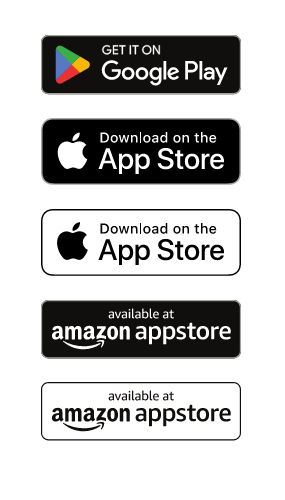
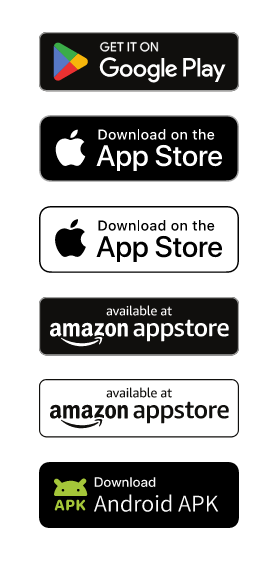
android-apk-badge

diff --git a/projects/ngx-app-store-badge/src/lib/components/android-apk-badge/android-apk-badge.component.html b/projects/ngx-app-store-badge/src/lib/components/android-apk-badge/android-apk-badge.component.html
@@ -1,0 +1,76 @@
+<a [href]="url" target="_blank" aria-label="download android app">
+  <svg
+    version="1.0"
+    id="katman_1"
+    x="0px"
+    y="0px"
+    viewBox="0 0 614.5 203.10015"
+    xml:space="preserve"
+    sodipodi:docname="download-android-apk-badge-seeklogo.com.svg"
+    inkscape:export-filename="apk.svg"
+    inkscape:export-xdpi="96"
+    inkscape:export-ydpi="96"
+    width="100%"
+    height="100%"
+    inkscape:version="1.2.2 (b0a8486541, 2022-12-01)"
+    xmlns:inkscape="http://www.inkscape.org/namespaces/inkscape"
+    xmlns:sodipodi="http://sodipodi.sourceforge.net/DTD/sodipodi-0.dtd"
+    xmlns="http://www.w3.org/2000/svg"
+    xmlns:svg="http://www.w3.org/2000/svg"
+  >
+    <defs id="defs17" />
+    <style type="text/css" id="style2">
+      .st0 {
+        fill-rule: evenodd;
+        clip-rule: evenodd;
+        fill: #a4c639;
+      }
+      .st1 {
+        fill: #a4c639;
+      }
+      .st2 {
+        fill: #fafafa;
+      }
+    </style>
+    <g
+      id="apk-en"
+      sodipodi:insensitive="true"
+      transform="translate(-92.6,-198.1)"
+    >
+      <path
+        id="Path"
+        d="m 132,401.1 c -1.6,0 -3.1,0 -4.7,-0.1 -3.3,0 -6.5,-0.3 -9.7,-0.9 -3,-0.5 -5.9,-1.5 -8.6,-2.9 -2.7,-1.4 -5.2,-3.2 -7.3,-5.4 -2.2,-2.2 -4,-4.7 -5.3,-7.4 -1.4,-2.8 -2.3,-5.7 -2.8,-8.8 -0.5,-3.3 -0.8,-6.6 -0.9,-10 0,-1.1 -0.1,-4.8 -0.1,-4.8 V 238.2 c 0,0 0,-3.7 0.1,-4.7 0,-3.3 0.3,-6.7 0.9,-9.9 0.5,-3.1 1.4,-6 2.8,-8.8 2.8,-5.5 7.2,-10 12.6,-12.8 2.7,-1.4 5.6,-2.4 8.6,-2.9 3.2,-0.5 6.5,-0.8 9.8,-0.9 l 4.7,-0.1 h 535.5 l 4.8,0.1 c 3.2,0 6.5,0.3 9.7,0.9 3,0.5 6,1.5 8.7,2.9 5.4,2.8 9.8,7.3 12.6,12.8 1.4,2.8 2.3,5.7 2.8,8.8 0.5,3.3 0.8,6.7 0.9,10 0,1.5 0,3.1 0,4.7 0,2 0,3.9 0,5.8 v 111.1 c 0,1.9 0,3.8 0,5.7 0,1.7 0,3.3 0,4.9 -0.1,3.3 -0.4,6.6 -0.9,9.8 -0.5,3.1 -1.4,6.1 -2.8,8.9 -1.4,2.7 -3.2,5.2 -5.3,7.4 -2.1,2.2 -4.6,4 -7.3,5.4 -2.7,1.4 -5.7,2.4 -8.7,2.9 -3.2,0.5 -6.5,0.8 -9.7,0.9 -1.5,0 -3.1,0.1 -4.7,0.1 H 662 Z"
+      />
+      <path
+        id="Shape"
+        class="st0"
+        d="m 214.1,261.4 c 0.2,-0.3 0.4,-0.5 0.7,-0.8 l 9.5,-9.5 c 3.1,-3.1 8.2,-3.1 11.4,0 3.1,3.1 3.1,8.2 0,11.3 l -8.2,8.1 c 7.1,6.7 11.3,15 13,24.8 0.9,5.4 -0.8,7.5 -6.8,7.5 h -87.2 c -6.4,0.1 -8.6,-2.2 -7.5,-7.8 1.8,-9 5.5,-16.7 11.2,-22.9 l -9.3,-9.2 c -3.1,-3.1 -3.1,-8.2 0,-11.3 3.1,-3.1 8.2,-3.1 11.4,0 l 9.5,9.5 c 0.4,0.4 0.8,0.9 1.1,1.4 1.8,-1 3.8,-1.9 5.8,-2.7 15.7,-6.2 31,-5.5 45.4,1.6 z m -43.9,23.4 c 0,2.2 -1.8,4 -4,4 -2.2,0 -4,-1.8 -4,-4 0,-2.2 1.8,-4 4,-4 2.2,0 4,1.8 4,4 z m 43,4 c 2.2,0 4,-1.8 4,-4 0,-2.2 -1.8,-4 -4,-4 -2.2,0 -4,1.8 -4,4 0,2.2 1.8,4 4,4 z"
+      />
+      <path
+        id="Shape_00000062156159513692599870000007454928920405724051_"
+        class="st1"
+        d="m 144.7,347 c 2.1,0 3.2,-1.1 4,-3.8 l 1.3,-3.9 h 11 l 1.2,3.9 c 0.8,2.7 2,3.8 4.1,3.8 2.3,0 3.8,-1.3 3.8,-3.4 0,-0.8 -0.2,-1.8 -0.6,-3.1 l -7.2,-21.1 c -1.3,-3.9 -3.1,-5.4 -6.6,-5.4 -3.5,0 -5.3,1.6 -6.6,5.4 l -7.3,21.1 c -0.6,1.6 -0.8,2.5 -0.8,3.3 0,1.8 1.5,3.2 3.7,3.2 z m 6.9,-13.5 3.7,-12.4 h 0.4 l 3.7,12.4 z"
+      />
+      <path
+        id="Shape_00000119819762168567224120000007194588840098864538_"
+        class="st1"
+        d="m 180.4,346.9 c 2.5,0 4,-1.6 4,-4.3 v -6.4 h 5.3 c 7.5,0 12.1,-4 12.1,-11.1 0,-6.7 -4.5,-11.1 -11.7,-11.1 h -8.4 c -3.8,0 -5.2,1.5 -5.2,5.4 v 23.2 c 0,2.8 1.4,4.3 3.9,4.3 z m 4,-16.5 v -10.2 h 4.5 c 3.2,0 5,1.9 5,5.1 0,3.8 -1.8,5.1 -5.9,5.1 z"
+      />
+      <path
+        id="Path_00000104674802263785953230000010432242082412835517_"
+        class="st1"
+        d="m 231,346.9 c 2.3,0 3.8,-1.5 3.8,-3.7 0,-1.1 -0.4,-1.9 -1.6,-3.6 l -8.2,-11 7.7,-8.3 c 1.1,-1.1 1.4,-1.9 1.4,-2.9 0,-1.9 -1.5,-3.5 -3.5,-3.5 -1.1,0 -2,0.5 -3.1,1.7 l -11,11.9 H 216 v -9.4 c 0,-2.7 -1.4,-4.3 -4,-4.3 -2.5,0 -4,1.5 -4,4.3 v 24.6 c 0,2.7 1.5,4.3 4.1,4.3 2.5,0 3.9,-1.5 3.9,-4.3 v -6.1 l 3,-3.1 8,10.9 c 1.3,1.7 2.5,2.5 4,2.5 z"
+      />
+      <path
+        id="Shape_00000142864597391006816290000004069479167641885085_"
+        class="st2"
+        d="m 264,245.2 v 29 h 10.5 c 4.7,0 8.3,-1.3 10.7,-3.9 2.3,-2.5 3.5,-6.1 3.5,-10.6 0,-4.6 -1.1,-8.1 -3.4,-10.6 -2.5,-2.6 -6,-3.9 -10.7,-3.9 z m 4.5,3.8 h 5.4 c 3.7,0 6.4,0.9 8.1,2.6 1.6,1.7 2.5,4.4 2.5,8.1 0,3.7 -0.9,6.3 -2.5,8.1 -1.7,1.7 -4.5,2.6 -8.1,2.6 h -5.3 V 249 Z m 34.1,3.6 c -3.2,0 -5.8,1.1 -7.7,3.2 -1.9,2.1 -2.9,4.7 -2.9,7.9 0,3.2 0.9,5.8 2.8,7.8 2,2.1 4.5,3.2 7.7,3.2 3.2,0 5.8,-1.1 7.7,-3.2 1.9,-2 2.8,-4.7 2.8,-7.8 0,-3.2 -1,-5.8 -2.9,-7.9 -1.7,-2.1 -4.3,-3.2 -7.5,-3.2 z m 0,3.6 c 2,0 3.6,0.8 4.7,2.4 1,1.3 1.5,3.1 1.5,5.2 0,2.1 -0.5,3.8 -1.5,5.2 -1.1,1.5 -2.7,2.4 -4.7,2.4 -2,0 -3.6,-0.8 -4.7,-2.4 -1,-1.3 -1.4,-3 -1.4,-5.2 0,-2.1 0.4,-3.9 1.4,-5.2 1.2,-1.7 2.7,-2.4 4.7,-2.4 z m 12.4,-3 7.2,21 h 4 l 4.4,-15.7 4.4,15.7 h 4 l 7.2,-21 h -4.8 l -4.5,15.9 -4.3,-15.9 h -4 l -4.3,15.9 -4.5,-15.9 z m 44.5,-0.6 c -1.3,0 -2.5,0.2 -3.6,0.8 -1.1,0.5 -2,1.3 -2.8,2.4 v -2.6 h -4.3 v 21 h 4.3 v -12.6 c 0.2,-1.7 0.8,-3 1.8,-4 0.9,-0.9 2,-1.3 3.2,-1.3 3.3,0 4.9,1.8 4.9,5.4 v 12.6 h 4.3 v -13 c 0.1,-5.8 -2.5,-8.7 -7.8,-8.7 z m 13.4,-8 v 29.6 h 4.3 v -29.6 z m 19.4,8 c -3.2,0 -5.8,1.1 -7.7,3.2 -1.9,2.1 -2.9,4.7 -2.9,7.9 0,3.2 0.9,5.8 2.8,7.8 2,2.1 4.5,3.2 7.7,3.2 3.2,0 5.8,-1.1 7.7,-3.2 1.9,-2 2.8,-4.7 2.8,-7.8 0,-3.2 -1,-5.8 -2.9,-7.9 -1.7,-2.1 -4.3,-3.2 -7.5,-3.2 z m 0,3.6 c 2,0 3.6,0.8 4.7,2.4 1,1.3 1.5,3.1 1.5,5.2 0,2.1 -0.5,3.8 -1.5,5.2 -1.1,1.5 -2.7,2.4 -4.7,2.4 -2,0 -3.6,-0.8 -4.7,-2.4 -1,-1.3 -1.4,-3 -1.4,-5.2 0,-2.1 0.4,-3.9 1.4,-5.2 1.2,-1.7 2.7,-2.4 4.7,-2.4 z m 24.2,-3.6 c -2.6,0 -4.7,0.4 -6.3,1.4 -1.8,1.1 -2.9,2.8 -3.4,5 l 4.3,0.4 c 0.2,-1.2 0.9,-2 1.8,-2.6 0.8,-0.5 1.9,-0.7 3.3,-0.7 3.2,0 4.8,1.5 4.8,4.4 v 0.9 l -4.7,0.1 c -3.1,0.1 -5.6,0.7 -7.3,1.9 -1.9,1.3 -2.8,3.1 -2.8,5.4 0,1.7 0.7,3.2 2,4.3 1.2,1.1 2.9,1.7 5.1,1.7 1.9,0 3.5,-0.4 4.9,-1 1.2,-0.6 2.2,-1.5 3.1,-2.5 v 3 h 4 v -13.4 c 0,-2.6 -0.7,-4.5 -1.9,-5.8 -1.5,-1.7 -3.8,-2.5 -6.9,-2.5 z m 4.5,11.9 v 1.2 c 0,1.6 -0.7,3 -2,4.1 -1.3,1.1 -2.9,1.7 -4.7,1.7 -1.1,0 -2,-0.3 -2.7,-0.8 -0.7,-0.5 -1,-1.2 -1,-2 0,-2.6 2,-4 5.9,-4.1 z m 24.4,-19.9 v 11.7 c -1.7,-2.5 -3.9,-3.7 -6.5,-3.7 -3,0 -5.4,1.1 -7.2,3.3 -1.6,2 -2.4,4.6 -2.4,7.7 0,3.2 0.8,5.8 2.5,7.9 1.8,2.2 4.2,3.3 7.3,3.3 2.9,0 5.1,-1.1 6.5,-3.1 v 2.5 h 4 v -29.6 z m -5.4,11.5 c 1.6,0 2.9,0.6 4,1.9 1.1,1.4 1.6,3.2 1.6,5.5 v 0.4 c 0,2.1 -0.4,3.8 -1.3,5.2 -1.1,1.5 -2.5,2.2 -4.4,2.2 -2.1,0 -3.7,-0.8 -4.7,-2.3 -0.9,-1.3 -1.3,-3.1 -1.3,-5.4 0,-2.3 0.4,-4.1 1.3,-5.3 1,-1.5 2.6,-2.2 4.8,-2.2 z"
+      />
+      <path
+        id="Shape_00000156589177487486049790000007684168799740552875_"
+        class="st2"
+        d="m 273.4,330.8 2.5,-7.9 c 1.8,-5.5 3.4,-10.6 5,-16.4 h 0.3 c 1.7,5.7 3.2,10.9 5,16.4 l 2.5,7.9 z m 21.5,19.5 h 5.8 L 284.1,302 h -6 l -16.6,48.3 h 5.5 l 5,-15.2 h 18.1 z m 12.4,0 h 5.4 v -26.1 c 3.7,-3.8 6.4,-5.8 10.2,-5.8 5,0 7.1,3 7.1,9.9 v 22 h 5.4 v -22.6 c 0,-9.1 -3.5,-13.9 -11,-13.9 -4.9,0 -8.6,2.8 -12.1,6.1 h -0.2 l -0.5,-5.2 h -4.4 v 35.6 z m 52.3,0.9 c 4.4,0 8.2,-2.3 11.1,-5.1 h 0.1 l 0.5,4.3 h 4.4 v -52.5 h -5.4 v 14 l 0.3,6.2 c -3.3,-2.6 -6,-4.2 -10.3,-4.2 -8.2,0 -15.6,7.3 -15.6,18.8 0.1,11.8 5.9,18.5 14.9,18.5 z m 1.1,-4.5 c -6.6,0 -10.3,-5.3 -10.3,-14.1 0,-8.3 4.7,-14.2 10.8,-14.2 3.1,0 5.9,1.1 9.2,4 v 19.3 c -3.1,3.2 -6.2,5 -9.7,5 z m 27.7,3.6 h 5.4 v -23.2 c 2.5,-6.2 6.2,-8.4 9.2,-8.4 1.4,0 2.2,0.2 3.4,0.6 l 1.1,-4.7 c -1.2,-0.6 -2.3,-0.8 -3.8,-0.8 -4.1,0 -7.7,3 -10.2,7.5 h -0.2 l -0.5,-6.5 h -4.4 z m 38.1,0.9 c 8.8,0 16.5,-6.9 16.5,-18.6 0,-11.9 -7.8,-18.8 -16.5,-18.8 -8.7,0 -16.5,6.9 -16.5,18.8 0,11.7 7.7,18.6 16.5,18.6 z m 0,-4.5 c -6.4,0 -10.9,-5.7 -10.9,-14.1 0,-8.5 4.4,-14.3 10.9,-14.3 6.5,0 11,5.7 11,14.3 0,8.4 -4.5,14.1 -11,14.1 z m 26.3,3.6 h 5.4 v -35.6 h -5.4 z m 2.7,-43.2 c 2.1,0 3.9,-1.5 3.9,-3.6 0,-2.3 -1.8,-3.7 -3.9,-3.7 -2.3,0 -3.9,1.4 -3.9,3.7 0,2 1.6,3.6 3.9,3.6 z m 27.2,44.1 c 4.4,0 8.2,-2.3 11.1,-5.1 h 0.1 l 0.5,4.3 h 4.4 v -52.5 h -5.4 v 14 l 0.3,6.2 c -3.3,-2.6 -6,-4.2 -10.3,-4.2 -8.2,0 -15.6,7.3 -15.6,18.8 0.1,11.8 5.9,18.5 14.9,18.5 z m 1.1,-4.5 c -6.6,0 -10.3,-5.3 -10.3,-14.1 0,-8.3 4.7,-14.2 10.8,-14.2 3.1,0 5.9,1.1 9.2,4 v 19.3 c -3.2,3.2 -6.2,5 -9.7,5 z m 48.4,-15.9 2.5,-7.9 c 1.8,-5.5 3.4,-10.6 5,-16.4 h 0.3 c 1.7,5.7 3.2,10.9 5,16.4 l 2.5,7.9 z m 21.5,19.5 h 5.8 L 542.9,302 h -6 l -16.6,48.3 h 5.5 l 5,-15.2 h 18.1 z m 12.9,0 h 5.5 v -19.5 h 8.2 c 10.7,0 17.8,-4.8 17.8,-14.8 0,-10.4 -7.1,-14 -18.1,-14 h -13.5 v 48.3 z m 5.5,-24 v -19.9 h 7.2 c 8.9,0 13.4,2.3 13.4,9.6 0,7.2 -4.2,10.3 -13.1,10.3 z m 36.1,24 h 5.5 v -15.6 l 8.7,-10.2 14.9,25.7 h 6.2 l -17.5,-30 15.3,-18.3 H 635 l -21,24.9 h -0.1 V 302 h -5.5 v 48.3 z"
+      />
+    </g>
+  </svg>
+</a>

diff --git a/projects/ngx-app-store-badge/src/lib/ngx-app-store-badge.module.ts b/projects/ngx-app-store-badge/src/lib/ngx-app-store-badge.module.ts
@@ -3,18 +3,21 @@ import { GooglePlayBadgeComponent } from './components/google-play-badge/google-
 import { AppStoreBadgeComponent } from './components/app-store-badge/app-store-badge.component';
 import { BrowserModule } from '@angular/platform-browser';
 import { AmazonAppStoreBadgeComponent } from './components/amazon-app-store-badge/amazon-app-store-badge.component';
+import { AndroidApkBadgeComponent } from './components/android-apk-badge/android-apk-badge.component';
 
 @NgModule({
   declarations: [
     GooglePlayBadgeComponent,
     AppStoreBadgeComponent,
     AmazonAppStoreBadgeComponent,
+    AndroidApkBadgeComponent,
   ],
   imports: [BrowserModule],
   exports: [
     GooglePlayBadgeComponent,
     AppStoreBadgeComponent,
     AmazonAppStoreBadgeComponent,
+    AndroidApkBadgeComponent,
   ],
 })
 export class NgxAppStoreBadgeModule {}

diff --git a/projects/ngx-app-store-badge/src/lib/components/android-apk-badge/android-apk-badge.component.spec.ts b/projects/ngx-app-store-badge/src/lib/components/android-apk-badge/android-apk-badge.component.spec.ts
@@ -1,0 +1,21 @@
+import { ComponentFixture, TestBed } from '@angular/core/testing';
+
+import { AndroidApkBadgeComponent } from './android-apk-badge.component';
+
+describe('AndroidApkBadgeComponent', () => {
+  let component: AndroidApkBadgeComponent;
+  let fixture: ComponentFixture<AndroidApkBadgeComponent>;
+
+  beforeEach(() => {
+    TestBed.configureTestingModule({
+      declarations: [AndroidApkBadgeComponent]
+    });
+    fixture = TestBed.createComponent(AndroidApkBadgeComponent);
+    component = fixture.componentInstance;
+    fixture.detectChanges();
+  });
+
+  it('should create', () => {
+    expect(component).toBeTruthy();
+  });
+});

diff --git a/projects/ngx-app-store-badge/src/public-api.ts b/projects/ngx-app-store-badge/src/public-api.ts
@@ -7,3 +7,4 @@ export * from './lib/ngx-app-store-badge.module';
 export * from './lib/components/app-store-badge/app-store-badge.component';
 export * from './lib/components/google-play-badge/google-play-badge.component';
 export * from './lib/components/amazon-app-store-badge/amazon-app-store-badge.component';
+export * from './lib/components/android-apk-badge/android-apk-badge.component';

diff --git a/projects/ngx-app-store-badge/src/lib/components/android-apk-badge/android-apk-badge.component.ts b/projects/ngx-app-store-badge/src/lib/components/android-apk-badge/android-apk-badge.component.ts
@@ -1,0 +1,10 @@
+import { Component, Input } from '@angular/core';
+
+@Component({
+  selector: 'ngx-android-apk-badge',
+  templateUrl: './android-apk-badge.component.html',
+  styleUrls: ['./android-apk-badge.component.scss'],
+})
+export class AndroidApkBadgeComponent {
+  @Input() url = '';
+}

diff --git a/projects/example/src/app/app.component.html b/projects/example/src/app/app.component.html
@@ -20,4 +20,8 @@
     light=""
     url="https://play.google.com/store/apps/details?id=xyz.wikylyu.totk"
   ></ngx-amazon-app-store-badge>
+
+  <ngx-android-apk-badge
+    url="https://play.google.com/store/apps/details?id=xyz.wikylyu.totk"
+  ></ngx-android-apk-badge>
 </div>

diff --git a/projects/example/src/app/app.component.scss b/projects/example/src/app/app.component.scss
@@ -15,7 +15,8 @@
 
     ngx-google-play-badge,
     ngx-app-store-badge,
-    ngx-amazon-app-store-badge {
+    ngx-amazon-app-store-badge,
+    ngx-android-apk-badge {
       width: 200px;
     }
   }

diff --git a/README.md b/README.md
@@ -8,6 +8,18 @@ Mobile app download badge for
 
 ## Usage
 
+import **NgxAppStoreBadgeModule**
+
+```typescript
+@NgModule({
+  declarations: [AppComponent],
+  imports: [BrowserModule, NgxAppStoreBadgeModule],
+  providers: [],
+  bootstrap: [AppComponent],
+})
+export class AppModule {}
+```
+
 Set badge's width with css
 
 ```html

diff --git a/projects/ngx-app-store-badge/README.md b/projects/ngx-app-store-badge/README.md
@@ -8,6 +8,18 @@ Mobile app download badge for
 
 ## Usage
 
+import **NgxAppStoreBadgeModule**
+
+```typescript
+@NgModule({
+  declarations: [AppComponent],
+  imports: [BrowserModule, NgxAppStoreBadgeModule],
+  providers: [],
+  bootstrap: [AppComponent],
+})
+export class AppModule {}
+```
+
 Set badge's width with css
 
 ```html
